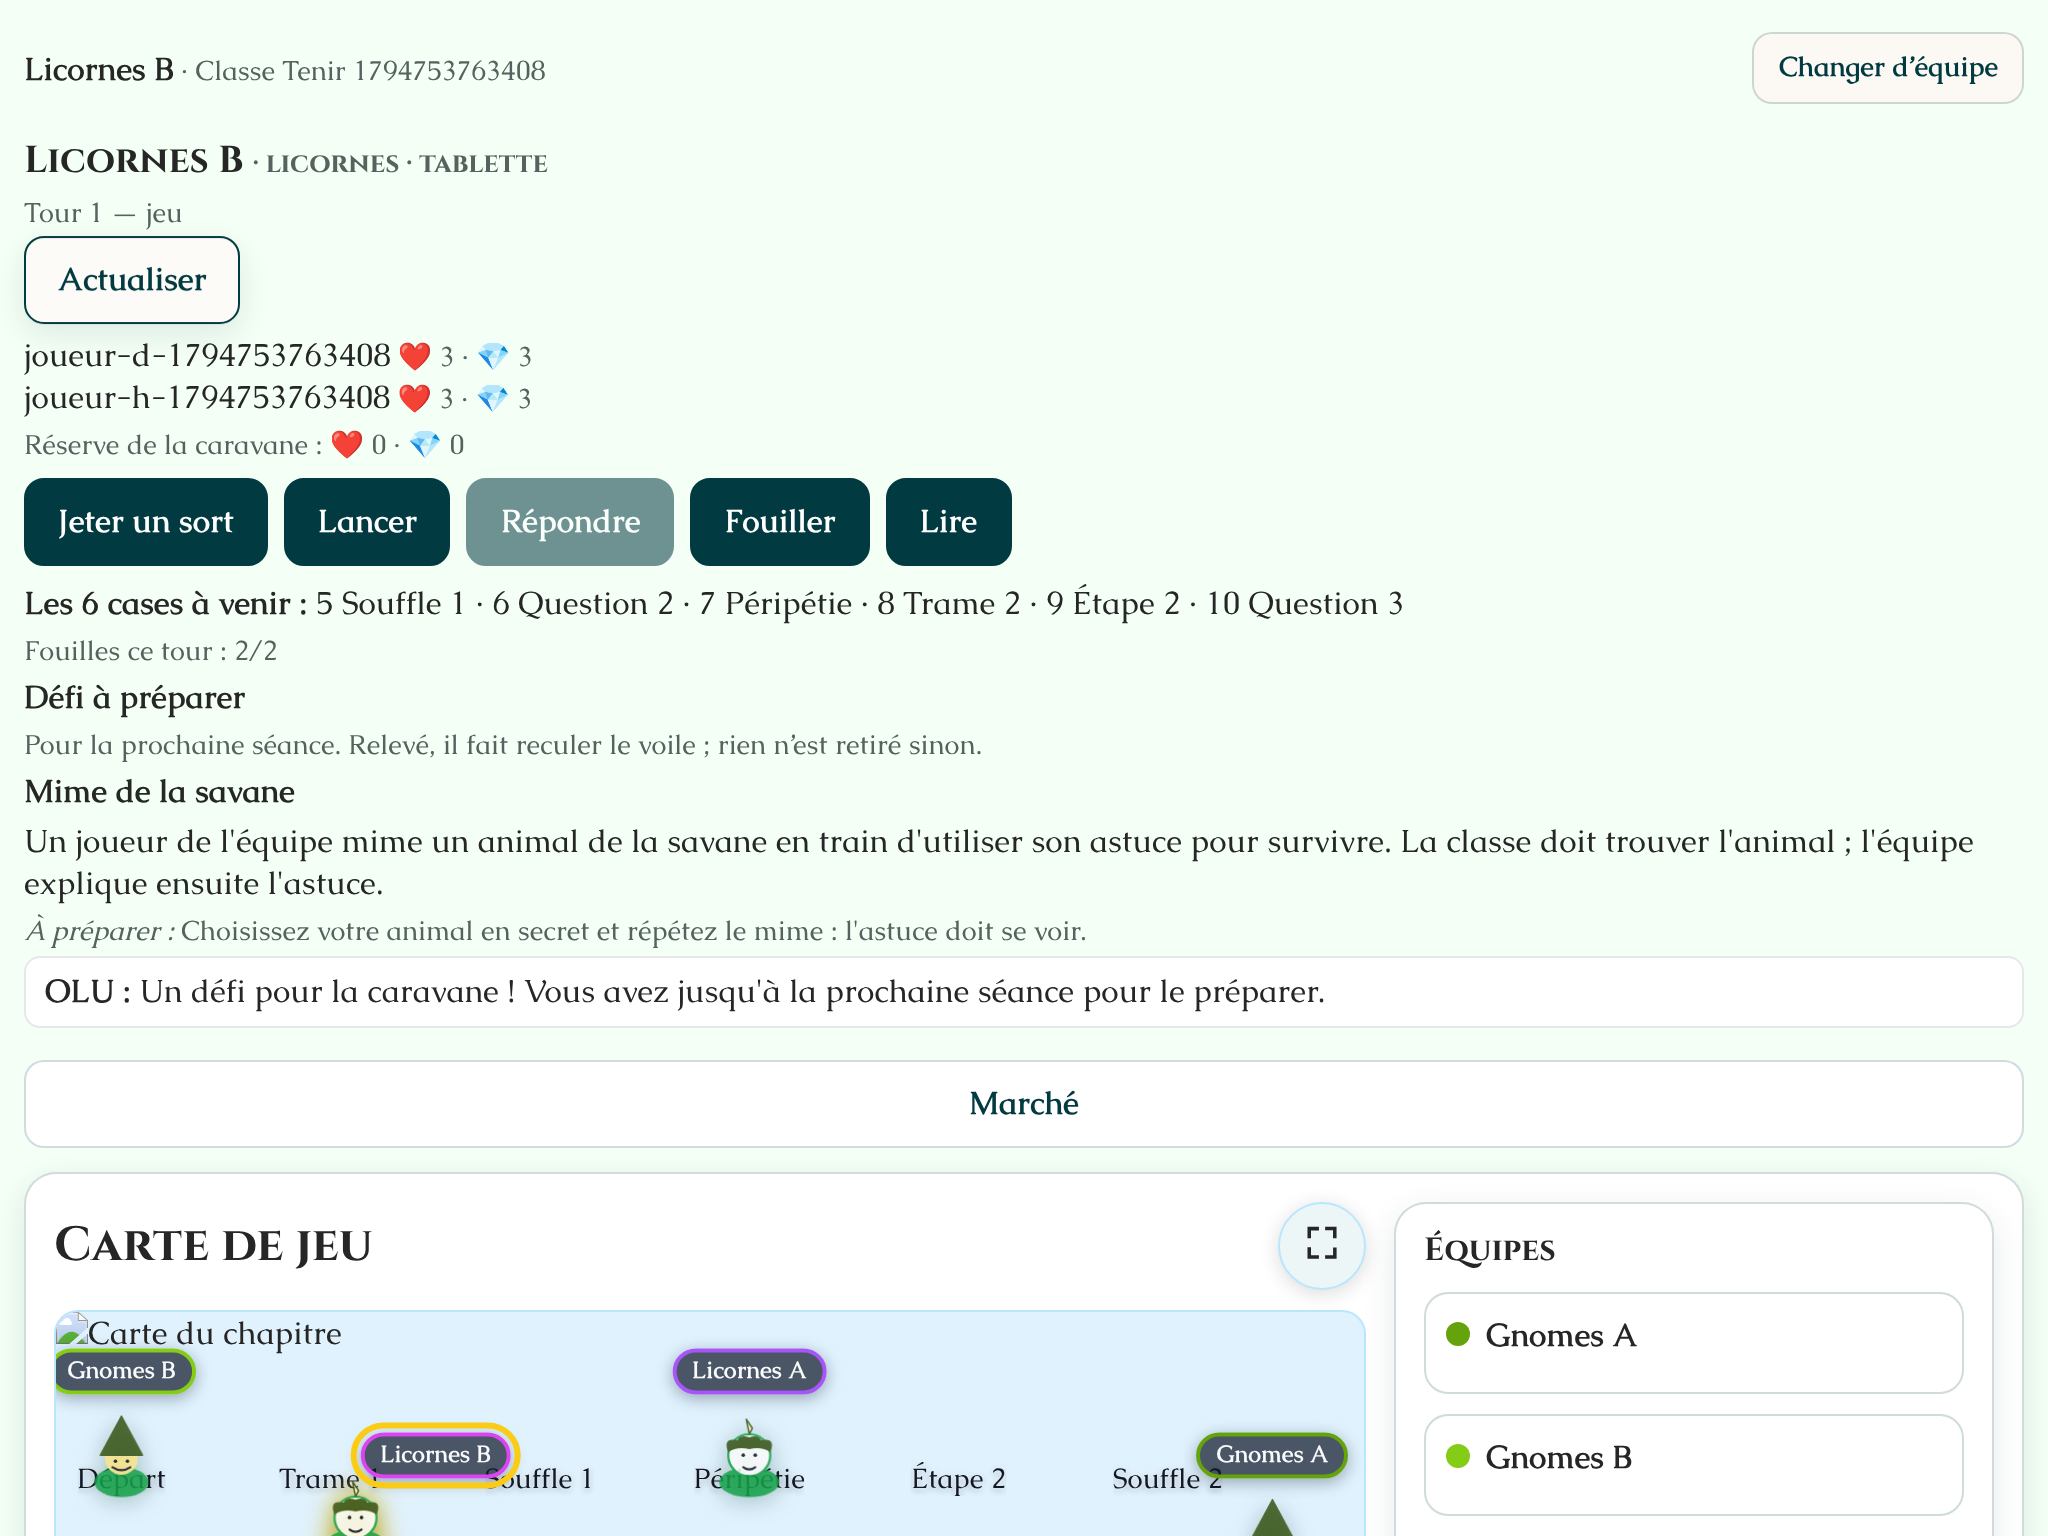
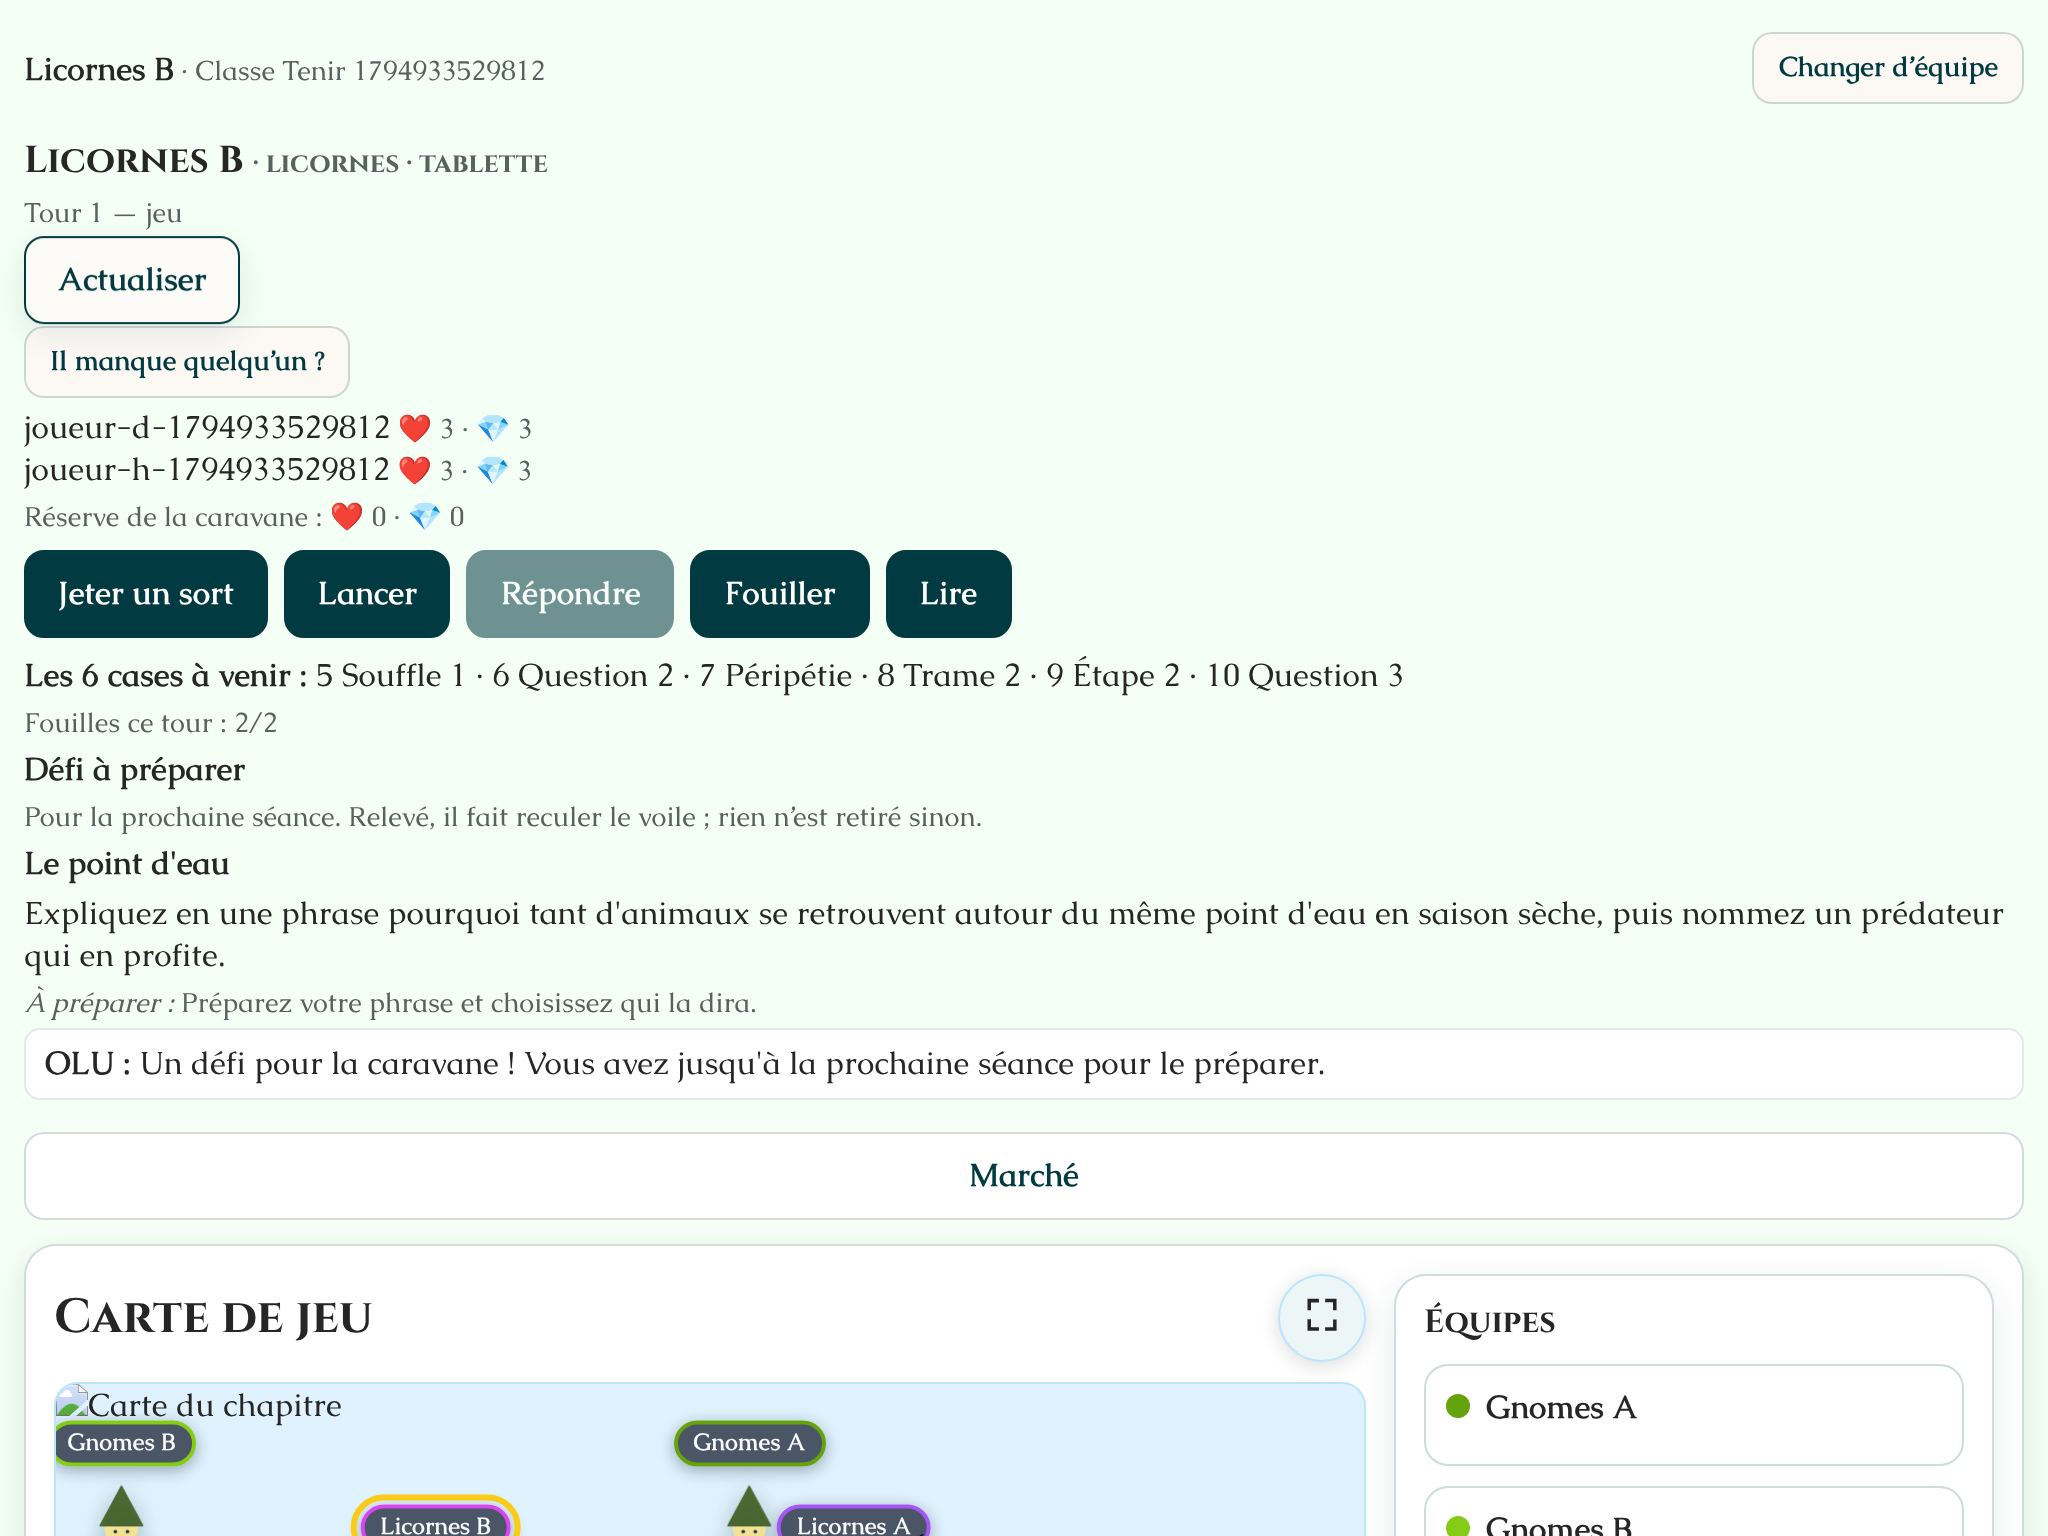
test(gl): e2e tablettes — présences par défaut (suite de #664)
Le scénario e2e/gl-tenir-tablettes.spec.js attendait encore l'écran de
confirmation des présences, retiré par la PR 1b (M14). Il vérifie désormais :
chacun présent d'office, le bouton « Il manque quelqu'un ? » ouvre le panneau,
« C'est bon » le referme, aucune demande de présence dans la file du prof.

Captures docs/captures/tenir-v2/ régénérées par le scénario (fixtures anonymes).
CHANGELOG : la correction, et le résultat du banc à deux graines.

Claude-Session: https://claude.ai/code/session_01KYTRNarL2BR5XwhFn2j6mU

diff --git a/e2e/gl-tenir-tablettes.spec.js b/e2e/gl-tenir-tablettes.spec.js
@@ -6,7 +6,7 @@ const { mountGlSession } = require('./fixtures/gl.fixture');
 // « Tenir à deux », lot 2 — jeu en parallèle sur tablettes de classe.
 // Quatre tablettes ouvrent le lien de la classe (trois par le QR, une par le code à huit
 // caractères), touchent chacune la mascotte de leur équipe et arrivent sur l'écran d'équipe.
-// Le prof ouvre le tour : chaque tablette confirme sa présence, l'une jette les dés. Un
+// Le prof ouvre le tour : chacun est présent d'office (rien à confirmer), l'une jette les dés. Un
 // cinquième appareil, connecté avec un compte d'élève, arrive sur le même écran d'équipe.
 // Captures : docs/captures/tenir-v2/tablette-*.png.
 
@@ -42,7 +42,7 @@ test.describe('GL — tablettes d’équipe par le lien de classe', () => {
     caseMarquee = null;
   });
 
-  test('quatre tablettes rejoignent leur équipe, confirment leur présence et jouent en parallèle ; un compte élève arrive sur le même écran', async ({
+  test('quatre tablettes rejoignent leur équipe et jouent en parallèle, sans présence à confirmer ; un compte élève arrive sur le même écran', async ({
     browser,
     request,
   }) => {
@@ -126,19 +126,26 @@ test.describe('GL — tablettes d’équipe par le lien de classe', () => {
         }
         await expect(equipe).toBeVisible({ timeout: 3_000 });
       }).toPass({ timeout: 30_000 });
-      // « Il manque quelqu'un ? » : personne ne manque.
-      await expect(t.page.getByTestId('gl-presence')).toBeVisible({ timeout: 15_000 });
+      // Ensemble unifié (M14) : tout le monde est là d'office. Rien à confirmer pour jouer,
+      // seulement un bouton discret « Il manque quelqu'un ? ».
+      const ouvrir = t.page.getByTestId('gl-presence-ouvrir');
+      await expect(ouvrir).toBeVisible({ timeout: 15_000 });
+      await expect(t.page.getByTestId('gl-presence')).toBeHidden();
       if (t === tablettes[0]) {
+        // Une équipe ouvre le panneau : personne ne manque, « C'est bon » le referme.
+        await ouvrir.getByRole('button').click();
+        await expect(t.page.getByTestId('gl-presence')).toBeVisible();
         await t.page.screenshot({ path: 'docs/captures/tenir-v2/tablette-presences.png' });
+        await t.page.getByTestId('gl-presence-ok').click();
+        await expect(t.page.getByTestId('gl-presence')).toBeHidden({ timeout: 15_000 });
       }
-      await t.page.getByTestId('gl-presence-ok').click();
-      await expect(t.page.getByTestId('gl-presence')).toBeHidden({ timeout: 15_000 });
     }
-    const presences = await queryOne(
-      'SELECT COUNT(*) AS n FROM gl_game_round_presences WHERE game_id = ?',
+    // Aucune demande de présence n'attend dans la file du prof.
+    const demandesPresence = await queryOne(
+      "SELECT COUNT(*) AS n FROM gl_game_demandes WHERE game_id = ? AND kind = 'presence_a_confirmer'",
       [gameId],
     );
-    expect(Number(presences.n)).toBe(4);
+    expect(Number(demandesPresence.n)).toBe(0);
 
     // Deux tablettes jettent les dés au même instant : chacune garde son propre jet.
     const jeter = async (t) => {
@@ -312,7 +319,7 @@ test.describe('GL — tablettes d’équipe par le lien de classe', () => {
       tab: 'maps',
     });
     await expect(pageEleve.getByTestId('gl-tenir-equipe')).toBeVisible({ timeout: 30_000 });
-    // Sa tablette d'équipe a déjà confirmé la présence : on ne la lui redemande pas.
+    // Présent d'office, comme sa tablette d'équipe : aucun écran de présence à passer.
     await expect(pageEleve.getByTestId('gl-presence')).toBeHidden();
     await expect(pageEleve.getByTestId('gl-tenir-cases-a-venir')).toBeVisible();
 

diff --git a/CHANGELOG.md b/CHANGELOG.md
@@ -9,6 +9,20 @@ Le numéro de version suit [Semantic Versioning](https://semver.org/lang/fr/) (M
 
 ## [Non publié]
 
+### Corrigé — G&L : scénario e2e des tablettes après les présences par défaut (17 novembre 2026)
+
+Suite de la PR 1b de l'ensemble unifié (#664).
+
+- `e2e/gl-tenir-tablettes.spec.js` attendait encore l'écran de confirmation des présences, retiré
+  par la décision M14 : le scénario vérifie désormais que chacun est présent d'office, qu'une
+  équipe peut ouvrir « Il manque quelqu'un ? » puis le refermer, et qu'aucune demande de présence
+  n'attend dans la file du prof. Captures `docs/captures/tenir-v2/` régénérées (tablettes, console).
+  Ce scénario ne tourne que dans l'e2e G&L nocturne, informatif : la CI de la PR ne le voyait pas.
+- **Banc, à lire avec la PR 1b** (scénario `ensemble-unifie`, graines 14 et 15, 80 chapitres de
+  chaque côté, 0 échec) : aucune mesure du § 6.12 ne s'écarte de plus de 1,3 erreur type. Un seul
+  effet réel, attendu : au plateau 2, la zone `cz-p2-08` activée porte le carnet à 8 pages (comme
+  au plateau 1), et le carnet complet y devient plus rare (45 % → 15 % des chapitres simulés).
+
 ### Modifié — G&L : ensemble unifié, PR 1b — charge du prof, lexique, zones, règles v3 (17 novembre 2026)
 
 Prompt `docs/GL_ENSEMBLE_UNIFIE_PROMPT.md` (§ 6, fin de l'étape 1.5 et étapes 1.8 à 1.11). Rien
